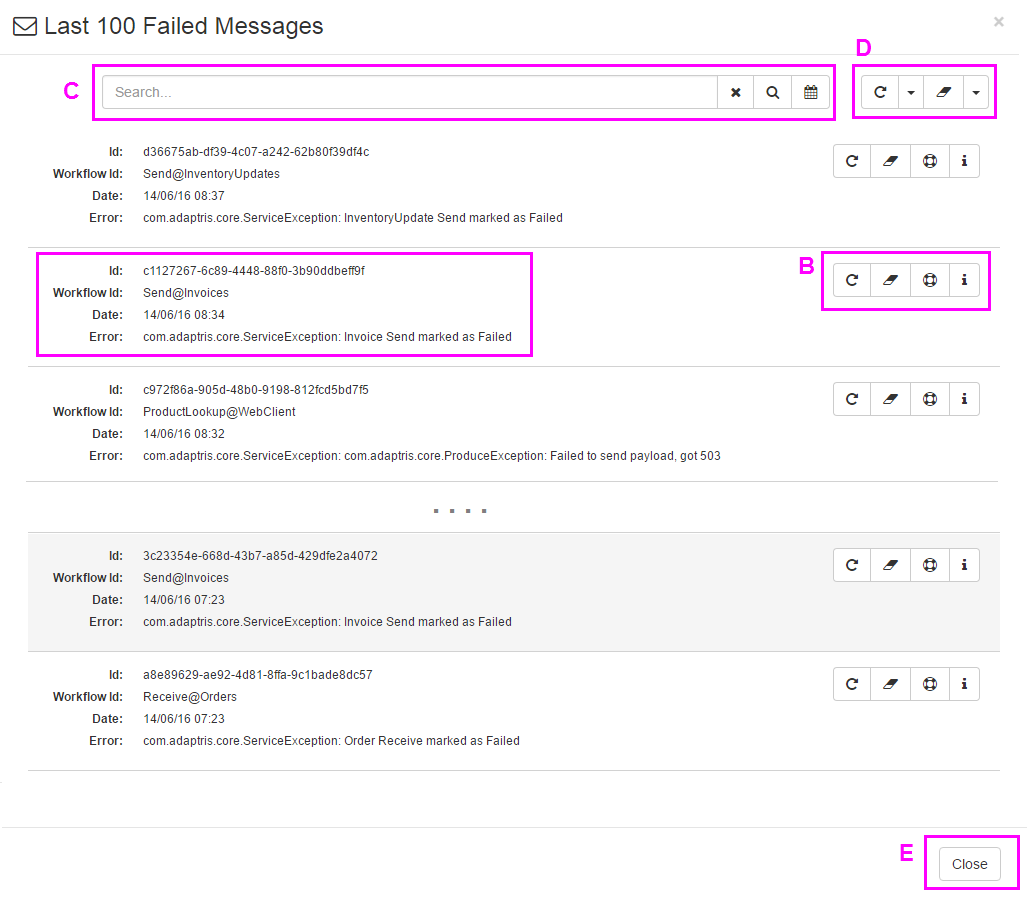
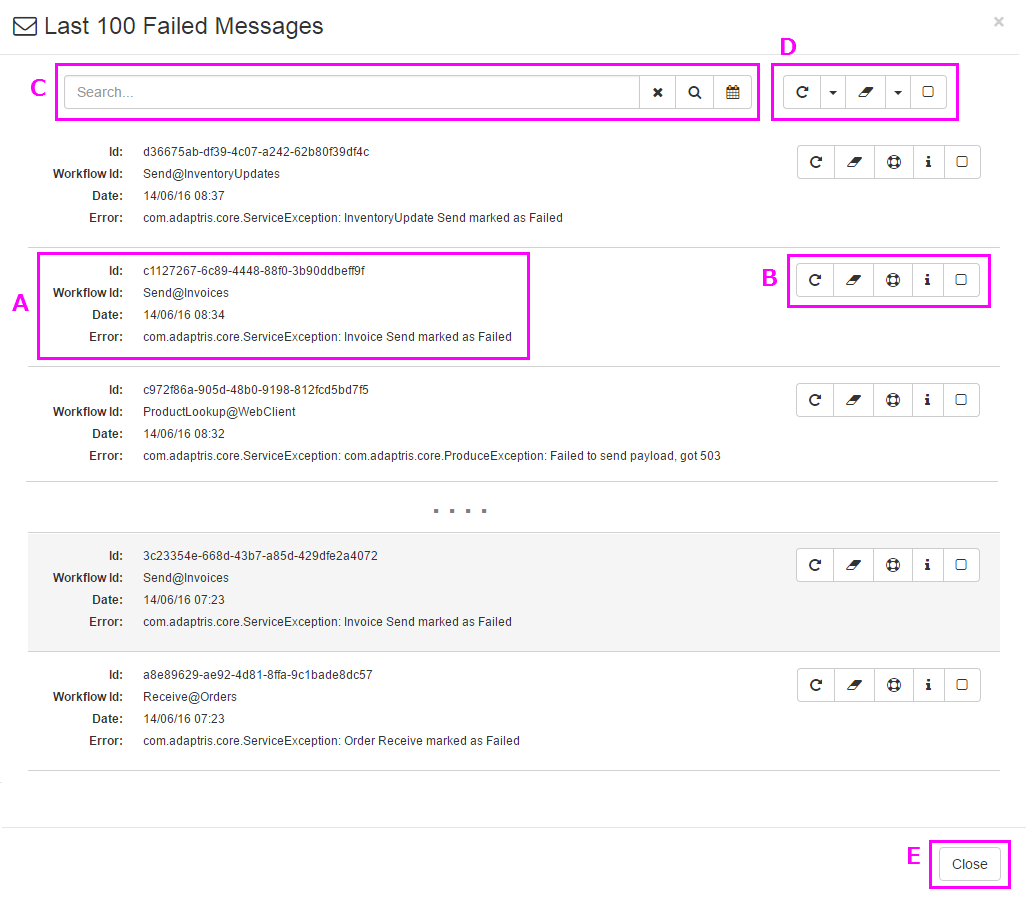
INTERLOK-1359 #time 2h #comment Update documentation for failed message modal in the dashboard page and for daily message chart in the runtime page.

diff --git a/pages/ui/ui-widgets.md b/pages/ui/ui-widgets.md
@@ -138,6 +138,10 @@ In order to use the stats and metrics widgets you need the correct config. You n
 
 {% include tip.html content="You need a `message-metrics-interceptors` configured at a workflow level which will gather the data that can be shown on this widget." %}
 
+### Daily Message Counts Chart ###
+
+This widget is similar to [Message Counts Chart](ui-widgets.html#message-counts-chart) but keeps data for 24 hours. (Since 3.5.1)
+
 ### Control Panel ###
 
 This widget allows quick control (Start, Close, Stop) of the adapter from the runtime page. (Since 3.4)
@@ -354,6 +358,10 @@ This widget is exactly like the widget described in [Container Message Counts Ch
 
 {% include note.html content="This widget derives its information from any configured workflow `message-metrics-interceptors`. If you have none configured then this widget will display no data." %}
 
+### Channel Daily Message Counts ###
+
+This widget is similar to [Channel Message Counts](ui-widgets.html#channel-message-counts) but keeps data for 24 hours. (Since 3.5.1)
+
 ### Channel Control Panel ###
 
 This widget is exactly like the widget described in [Container Control Panel Widget](ui-widgets.html#control-panel), but will control a channel instead of an adapter. (Since 3.4)
@@ -374,6 +382,10 @@ This chart shows:
 - The X axis shows the time
 - The Y axis shows the amount of messages or error messages processed
 - One line represents the workflow messages and the other represent workflow error messages
+
+### Workflow Daily Message Counts ###
+
+This widget is similar to [Channel Message Counts](ui-widgets.html#workflow-message-counts) but keeps data for 24 hours. (Since 3.5.1)
 
 ### Workflow Control Panel ###
 

diff --git a/pages/ui/ui-dashboard.md b/pages/ui/ui-dashboard.md
@@ -213,6 +213,7 @@ The above image shows the various parts of the Failed Messages modal window:
     - Ignore the failed message; this will remove the message from the UI failed messages list, without retrying it.
 	- Create a support pack; this will create and download a zip file with some information about the adapter and the failing message. (Since 3.3)
 	- Show more information; this will display the full stack trace of the failing message and the logs traced at the time the message failed. (Since 3.3)
+	- Select the failed message; this will be used when using the deleting/retrying all selected message buttons. (Since 3.5.1)
 - C. This is the Search Failed Message List feature that includes a free text input, whose value will be used to filter the failed message list. The buttons alongside this input are for clearing the filter, executing the search and selecting the date range respectively;
 - D. These commands operate in the same fashion as those in the failed message control functions (detailed in point B), but these operations relate to all the messages displayed in the failed message list (i.e. if you are using the search filter, the actions will only be applied to the displayed messages);
 - E. This button can be used to Failed Message modal window.

diff --git a/pages/ui/ui-system-preferences.md b/pages/ui/ui-system-preferences.md
@@ -18,7 +18,7 @@ The system preferences are:
 - **Config Store Url:** Directory where configurations are saved (and auto saved).
 - **Vcs Repo Url:** Directory where all the VCS (Suversion, Git) repositories get stored.
 - **Id Generator:** Random Id generator strategy for new component in the configuration page: (Since 3.5.0)
+    - **Random Name:** The generated Id will be a mix of a random famous scientist surname and a random adjective, e.g. amazing-darwin. (Default Since 3.5.1)
     - **Class Name and Random Id:** The generated Id will be a mix of the component class name or alias and a random number, e.g. Channel-1209003.
-    - **Random Name:** The generated Id will be a mix of a random famous scientist surname and a random adjective, e.g. amazing-darwin.
 
 **All the changes require a container restart to take effect.**
